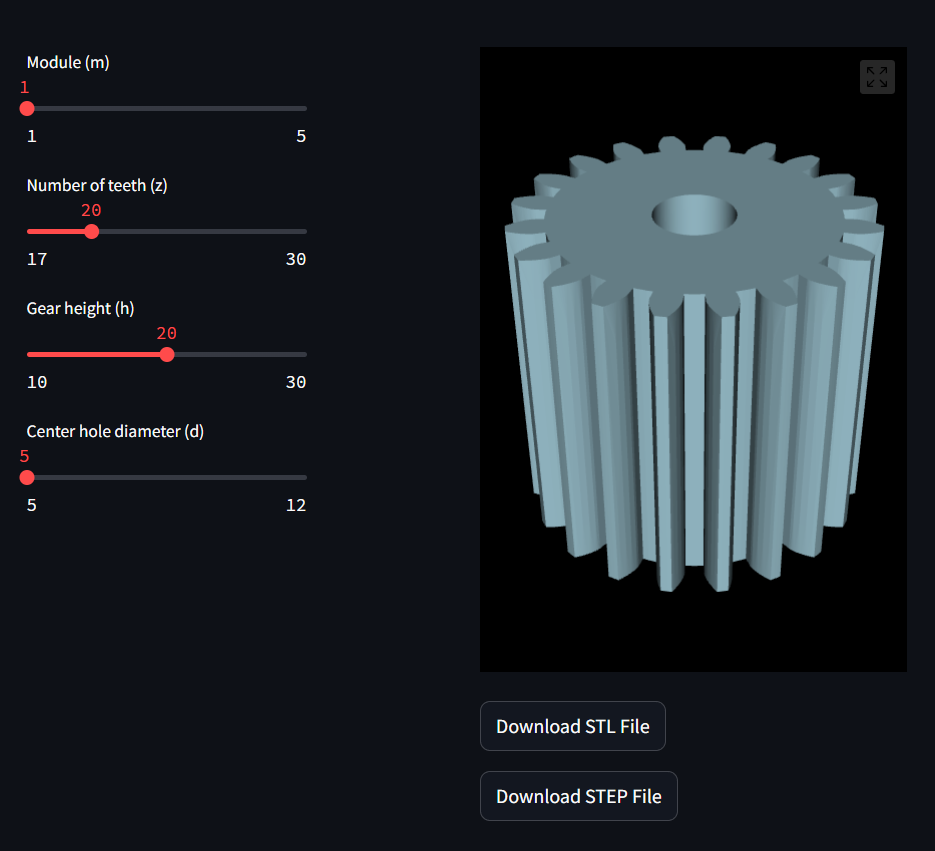
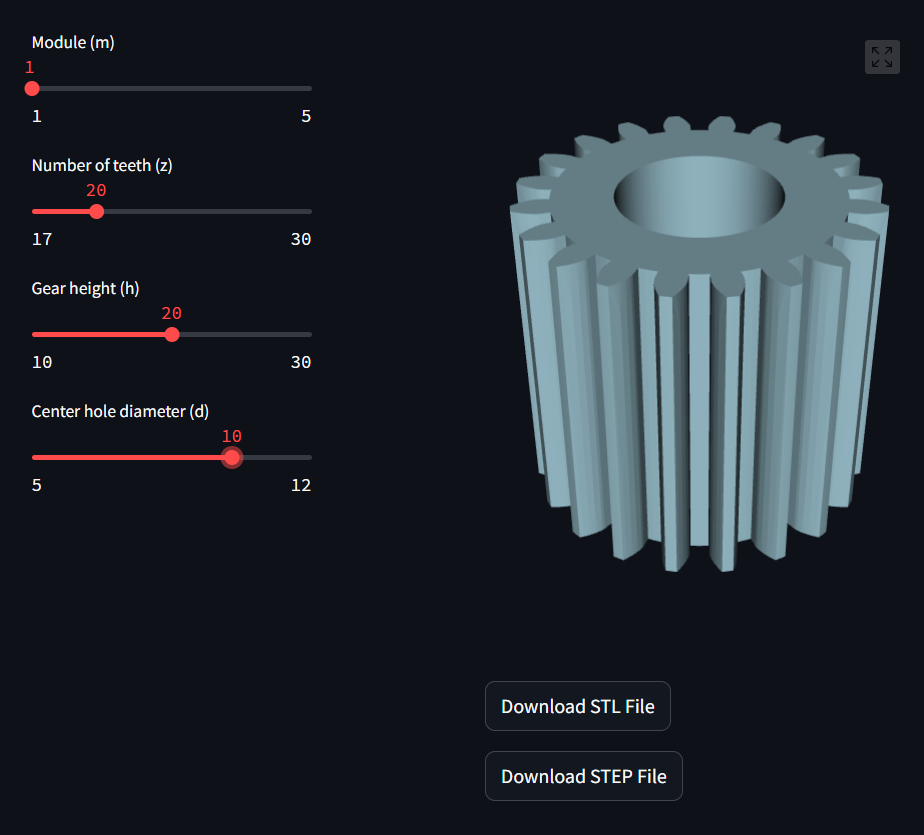
fixed model background color, fixed readme accordingly

diff --git a/models/gear_model.py b/models/gear_model.py
@@ -141,7 +141,7 @@ mesh = pv.read(file_path_stl)
 plotter = pv.Plotter(window_size=[500, 500])
 plotter.add_mesh(mesh)
 plotter.view_isometric()
-plotter.background_color = 'black'
+plotter.set_background("#0e1117")
 
 with col3:
     stv(plotter, key=f"gear_{module}_{teeth}_{center_hole_dia}_{height}")
